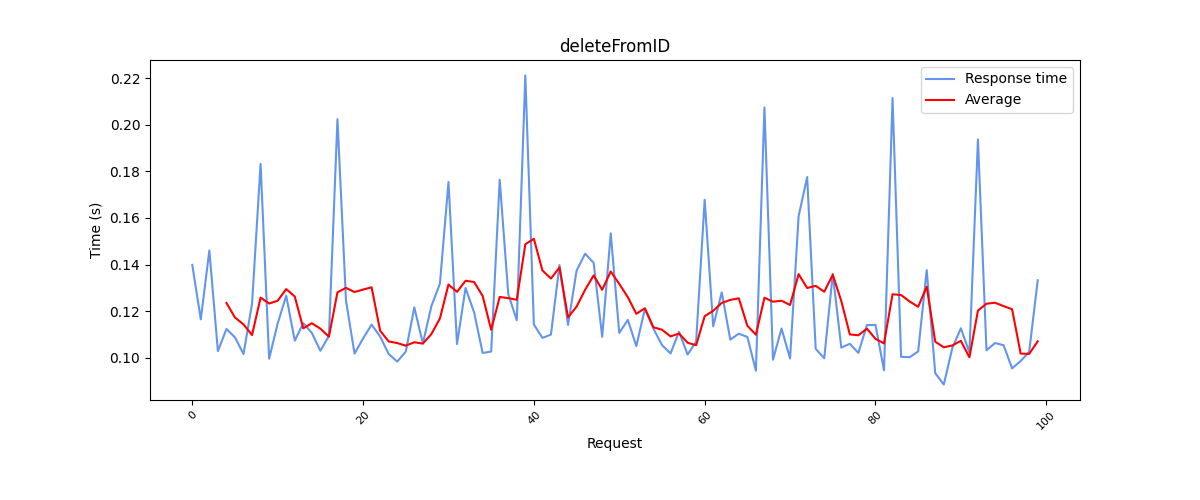
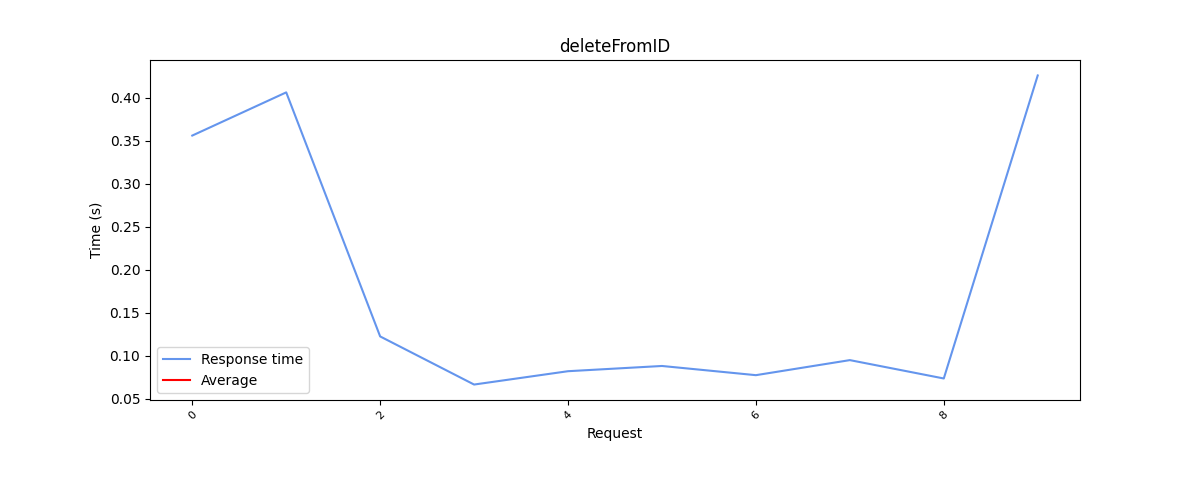
API Interface 🎉

diff --git a/main.py b/main.py
@@ -1,124 +1,104 @@
 import argparse
+from ast import arg
 from cProfile import label
 import requests
 from requests.structures import CaseInsensitiveDict
 import json
-import matplotlib.pyplot as plt
-import pandas as pd
 import time
-import os
 from tqdm import tqdm
+
+
+from utility import Utility
+from appInterface import ApplicationInterface # To access to the API
 
 URL = "http://localhost:8000/ec/payloads"
 NB_REQUEST = 100
+uti = Utility()
+interface = ApplicationInterface(URL)
 
 def main(args):  
-    lst_getDataNodeById = []; lst_getMessageByIP = []; lst_sendNodeData = []; lst_request = []; lst_deleteFromID = []
-    pbar = tqdm(total=NB_REQUEST)
+    lst_getDataNodeById = []; lst_getMessageByIP = []; lst_getMessageDate = []
+    lst_getMessageType = []; lst_sendNodeData = []; lst_getMessageByVal = []
+    lst_deleteFromID = []; lst_deleteFromDate = []; lst_sendMultipleData = []
+    lst_request = []
+    
     count = 0
+    pbar = tqdm(total=NB_REQUEST)
     while(count < NB_REQUEST):
         if(args.v == 1): print("[+] Request : " + str(count))
         
         st = time.time()
-        getDataNodeById(0, args.v) # get test
+        interface.postDataFromSingleDevice("192.168.56.1", 9082022, "testType", "data.json")
+        ed = time.time()
+        if(args.v == 1): print("     Time elapsed : " + str(ed - st))
+        lst_sendNodeData.append(ed - st)
+    
+        st = time.time()
+        interface.postDataFromMultipleDevice("datamul.json")
+        ed = time.time()
+        if(args.v == 1): print("     Time elapsed : " + str(ed - st))
+        lst_sendMultipleData.append(ed - st)
+        
+        st = time.time()
+        interface.getDataFromID(150)
         ed = time.time()
         if(args.v == 1): print("     Time elapsed : " + str(ed - st))
         lst_getDataNodeById.append(ed - st)
         
         st = time.time()
-        deleteFromID(0, args.v) # get test
+        interface.getListOfMessageWithValidation(True)
+        ed = time.time()
+        if(args.v == 1): print("     Time elapsed : " + str(ed - st))
+        lst_getMessageByVal.append(ed - st)
+
+        st = time.time()
+        interface.deleteDataFromID(150) 
         ed = time.time()
         if(args.v == 1): print("     Time elapsed : " + str(ed - st))
         lst_deleteFromID.append(ed - st)
         
         st = time.time()
-        sendNodeData(URL, args.v) # send test
+        interface.deleteListOfMessageByDate(13021999) # get test
         ed = time.time()
         if(args.v == 1): print("     Time elapsed : " + str(ed - st))
-        lst_sendNodeData.append(ed - st)
+        lst_deleteFromDate.append(ed - st)
         
         st = time.time()
-        getMessageByIP("192.168.56.1", args.v) # send test
+        interface.getListOfMessageFromDeviceIP("69.69.69.69") # send test
         ed = time.time()
         if(args.v == 1): print("     Time elapsed : " + str(ed - st))
         lst_getMessageByIP.append(ed - st)
+        
+        st = time.time()
+        interface.getListOfMessageByDate("13021999") # send test
+        ed = time.time()
+        if(args.v == 1): print("     Time elapsed : " + str(ed - st))
+        lst_getMessageDate.append(ed - st)
+        
+        st = time.time()
+        interface.getListOfMessageFromSensorType("testType") # send test
+        ed = time.time()
+        if(args.v == 1): print("     Time elapsed : " + str(ed - st))
+        lst_getMessageType.append(ed - st)
         
         lst_request.append(count)
         count += 1
         pbar.update(1)
     pbar.close()
     
-    plotResponseTime(lst_request, lst_getDataNodeById, "getDataNodeById")
-    plotResponseTime(lst_request, lst_sendNodeData, "sendNodeData")
-    plotResponseTime(lst_request, lst_getMessageByIP, "getMessageByIP")
-    plotResponseTime(lst_request, lst_deleteFromID, "deleteFromID")
+    uti.plotResponseTime(NB_REQUEST, lst_request, lst_getDataNodeById, "getDataById")
+    uti.plotResponseTime(NB_REQUEST, lst_request, lst_getMessageByIP, "getMessageByIP")
+    uti.plotResponseTime(NB_REQUEST, lst_request, lst_getMessageDate, "getMessageByDate")
+    uti.plotResponseTime(NB_REQUEST, lst_request, lst_getMessageType, "getMessageByType")
+    uti.plotResponseTime(NB_REQUEST, lst_request, lst_getMessageByVal, "getMessageByValidation")
+    uti.plotResponseTime(NB_REQUEST, lst_request, lst_sendNodeData, "postDataSingleDevice")
+    uti.plotResponseTime(NB_REQUEST, lst_request, lst_sendMultipleData, "postDataMutipleDevice")
+    uti.plotResponseTime(NB_REQUEST, lst_request, lst_deleteFromID, "deleteFromID")
+    uti.plotResponseTime(NB_REQUEST, lst_request, lst_deleteFromDate, "deleteFromDate")
 
-def getDataNodeById(ID, verbose=0):
-    url= URL + "/" + str(ID)
-    headers = CaseInsensitiveDict()
-    headers["Content-Type"] = "application/json"
-    resp = requests.get(url=url, headers=headers)
-    if(verbose==1):
-        print(resp.status_code)
-
-def getMessageByIP(IP, verbose=0):
-    url= URL + "/" + str(IP)
-    headers = CaseInsensitiveDict()
-    headers["Content-Type"] = "application/json"
-    resp = requests.get(url=url, headers=headers)
-    if(verbose==1):
-        print(resp.status_code)
-
-def deleteFromID(ID, verbose=0):
-    url= URL + "/" + str(ID)
-    headers = CaseInsensitiveDict()
-    headers["Content-Type"] = "application/json"
-    resp = requests.delete(url=url, headers=headers)
-    if(verbose==1):
-        print(resp.status_code)
-
-def sendNodeData(URL="http://localhost:8000/ec/payloads", verbose=0):
-    # STRING
-    ip = "0.0.0.0:8000"
-    # INTEGER
-    date = 1637678232454
-    # STRING
-    type = "BatSense"
-    # LIST
-    val = getLocalData("data.json")
-    # defining a params dict for the parameters to be sent to the API
-    DATA = {'ip':ip, 'date':date, 'type':type, 'values':val["values"]}
-    headers = CaseInsensitiveDict()
-    headers["Content-Type"] = "application/json"
-    resp = requests.post(url=URL, headers=headers, data=DATA)
-    if(verbose==1):
-        print(resp.status_code)
-        print(DATA)
-
-def getLocalData(path):
-    f = open(path)
-    values = json.load(f)
-    return values
-
-def plotResponseTime(lst_x, lst_y, title):
-    data = pd.DataFrame(lst_y)
-    t_average = data.rolling(NB_REQUEST//20).mean()
+    uti.plotAllResponseTime()
     
-    fig = plt.figure(figsize = (12, 5))
-    plt.plot(lst_x, lst_y, color ='cornflowerblue', label="Response time")
-    plt.plot(lst_x, t_average, color ='red', label="Average")
-    plt.ylabel("Time (s)")
-    plt.xlabel("Request")
-    plt.title(title)
-    plt.xticks(rotation = 45, fontsize=8)
-    plt.legend()
-    plt.subplots_adjust(bottom=0.2)
-    name = os.getcwd() +"/res/" + title + ".png"
-    try:
-        plt.savefig(name)
-    except:
-        print("[-] Error - Unable to save the chart")
-    
+
 if __name__ == '__main__':
     parser = argparse.ArgumentParser(description="Process args for edge computing project")
     parser.add_argument("--v", help="Verbose (0/1)", type=int, default=0)

diff --git a/appInterface.py b/appInterface.py
@@ -1,0 +1,73 @@
+import requests
+from requests.structures import CaseInsensitiveDict
+from utility import Utility
+
+class ApplicationInterface:
+    def __init__(self, url):
+        self.uti = Utility()
+        self.URL = url
+        self.headers = CaseInsensitiveDict()
+        self.headers["Content-Type"] = "application/json"
+    
+    def getDataFromID(self, ID):
+        url= self.URL + "/" + str(ID)
+        return self.get(url)
+
+    def getListOfMessageFromDeviceIP(self, IP):
+        url= self.URL + "/sensor/?ip=" + str(IP)
+        return self.get(url)
+    
+    def getListOfMessageByDate(self, date):
+        url= self.URL + "/offload/?date=" + str(date)
+        return self.get(url)
+    
+    def getListOfMessageFromSensorType(self, typ):
+        url= self.URL + "/sensor_type/?type=" + str(typ)
+        return self.get(url)
+
+    def getListOfMessageWithValidation(self, val):
+        url= self.URL + "/valid_items/?valid=" + str(val)
+        return self.get(url)
+    
+    def deleteDataFromID(self, ID):
+        url= self.URL + "/" + str(ID)
+        return self.delete(url)
+    
+    def deleteListOfMessageByDate(self, date):    
+        url= self.URL + "/offload/?date=" + str(date)
+        return self.delete(url)
+    
+    def postDataFromSingleDevice(self, ip: str, date: int, type: str, jsonfile: str):
+        url = self.URL + "/"
+        val = self.uti.getLocalData(jsonfile)
+        DATA = {'ip':ip, 'date':date, 'type':type, 'values':val["values"]}
+        json_object = self.uti.dumpData(DATA)
+        return self.post(url, json_object)
+    
+    def postDataFromMultipleDevice(self, jsonfile):
+        url = self.URL + "/multiple/"
+        DATA = self.uti.getLocalData(jsonfile)
+        json_object = self.uti.dumpData(DATA)
+        return self.post(url, json_object)
+    
+    
+    def post(self, url, json_object):
+        resp = requests.post(url=url, headers=self.headers, data=json_object)
+        if(resp.status_code in [204,200,201]):
+            return resp.content
+        else:
+            return None
+        
+    def delete(self, url):
+        resp = requests.delete(url=url, headers=self.headers)
+        if(resp.status_code in [204,200,201]):
+            return resp.content
+        else:
+            return None
+        
+    def get(self, url):
+        resp = requests.get(url=url, headers=self.headers)
+        if(resp.status_code in [204,200,201]):
+            return resp.content
+        else:
+            return None

diff --git a/utility.py b/utility.py
@@ -1,0 +1,56 @@
+import matplotlib.pyplot as plt
+import pandas as pd
+import os
+import json
+
+class Utility:
+    
+    def __init__(self):
+        self.lstX = []
+        self.lstY = []
+        self.lstTitle = []
+    
+    def getLocalData(self, path):
+        f = open(path)
+        values = json.load(f)
+        return values
+    
+    def dumpData(self, dict):
+        return json.dumps(dict, indent = 4)
+    
+    def plotAllResponseTime(self):
+        fig = plt.figure(figsize = (12, 5))
+        for i in range(0, len(self.lstY)):
+            plt.plot(self.lstX[i], self.lstY[i], label=self.lstTitle[i])
+        plt.ylabel("Time (s)")
+        plt.xlabel("Request")
+        plt.title("All request response time")
+        plt.xticks(rotation = 45, fontsize=8)
+        plt.legend()
+        plt.subplots_adjust(bottom=0.2)
+        name = os.getcwd() +"/res/comparison.png"
+        try:
+            plt.savefig(name)
+        except:
+            print("[-] Error - Unable to save the chart")
+    
+    def plotResponseTime(self, NB_REQUEST, lst_x, lst_y, title):
+        self.lstX.append(lst_x)
+        self.lstY.append(lst_y)
+        self.lstTitle.append(title)
+        data = pd.DataFrame(lst_y)
+        t_average = data.rolling(NB_REQUEST//20).mean()
+        fig = plt.figure(figsize = (12, 5))
+        plt.plot(lst_x, lst_y, color ='cornflowerblue', label="Response time")
+        plt.plot(lst_x, t_average, color ='red', label="Average")
+        plt.ylabel("Time (s)")
+        plt.xlabel("Request")
+        plt.title(title)
+        plt.xticks(rotation = 45, fontsize=8)
+        plt.legend()
+        plt.subplots_adjust(bottom=0.2)
+        name = os.getcwd() +"/res/" + title + ".png"
+        try:
+            plt.savefig(name)
+        except:
+            print("[-] Error - Unable to save the chart")
